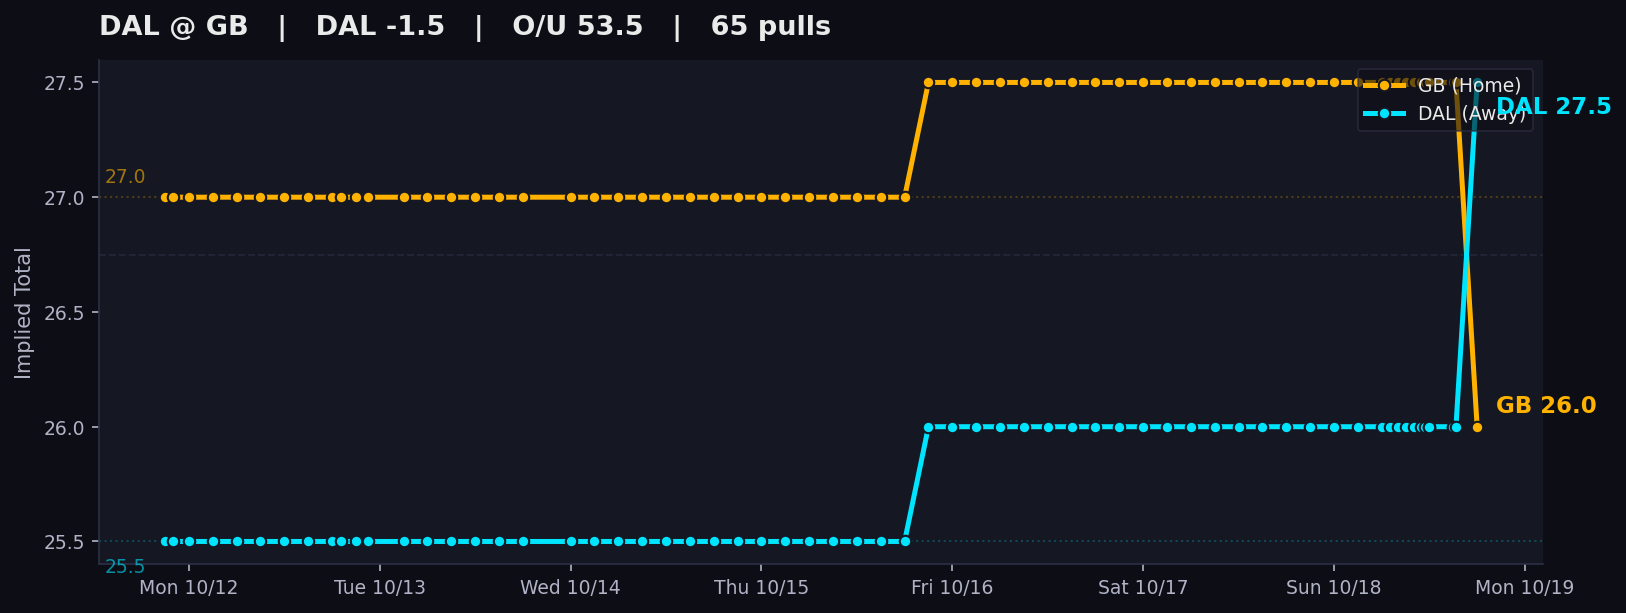
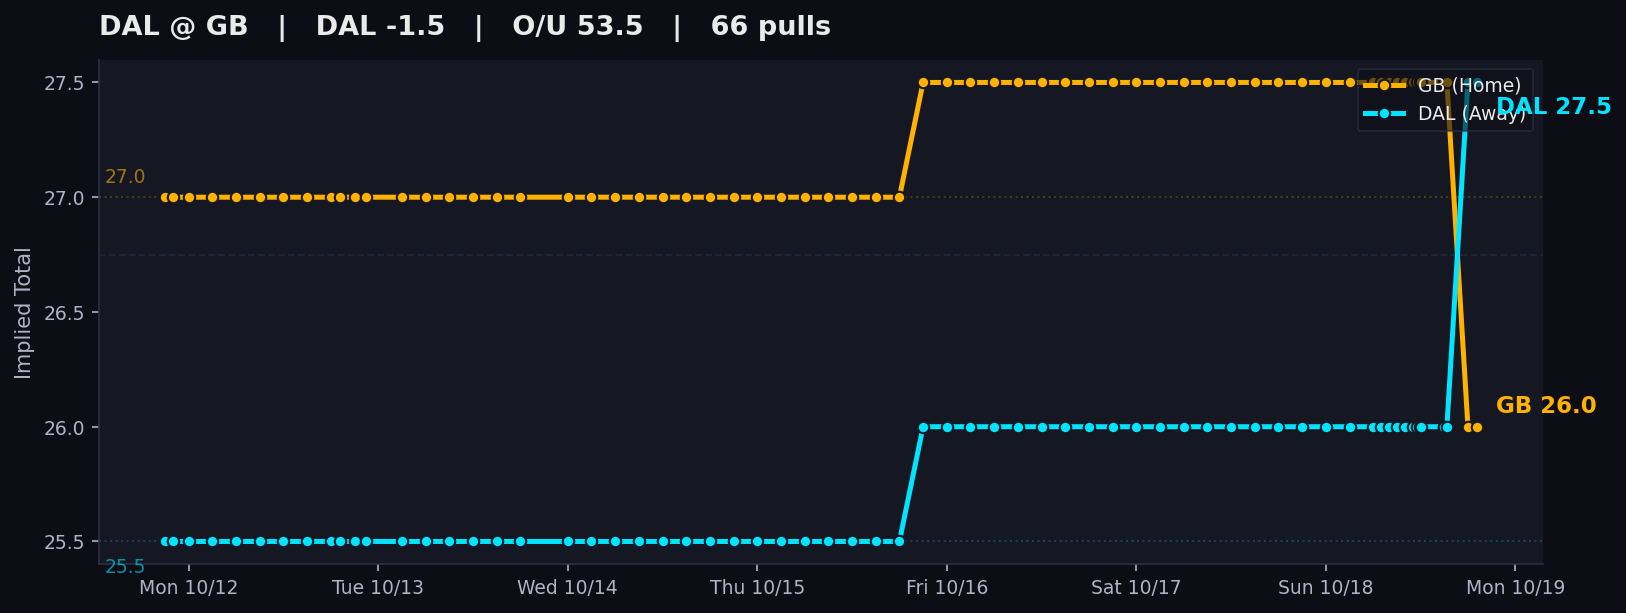
auto: local tracker sync

diff --git a/charts/index.html b/charts/index.html
@@ -311,7 +311,7 @@
     </div>
     <p class='sub'>
       DraftKings main lines &middot; Pinnacle cross-check &middot; Updated by the local Mac tracker<br>
-      Page rendered Sun Oct 18, 2026 6:00 PM CDT &middot; 825 valid chart dots &middot; 868 total pull attempts
+      Page rendered Sun Oct 18, 2026 7:10 PM CDT &middot; 827 valid chart dots &middot; 870 total pull attempts
       <span class='legend-box'>
         <span class='dot-teal'>● Away implied total</span>
         <span class='dot-amber'>● Home implied total</span>
@@ -324,9 +324,9 @@
     </details>
   </header>
 
-  <div id='feed-banner' class='alert-banner healthy' data-banner-kind='healthy' data-feed-ts='2026-10-18T23:00:04.097752+00:00' data-feed-ts-label='Sun Oct 18, 6:00 PM CDT'>
+  <div id='feed-banner' class='alert-banner healthy' data-banner-kind='healthy' data-feed-ts='2026-10-19T00:10:01.359197+00:00' data-feed-ts-label='Sun Oct 18, 7:10 PM CDT'>
             <span class='status-dot'></span>
-            <b>Feed Healthy:</b> All 2 open markets updated. 12 games have started and is showing its final verified pregame line. Board age based on oldest open market: <span id='feed-time'>Sun Oct 18, 6:00 PM CDT</span> (<span id='feed-age-dynamic'>just now</span>).
+            <b>Feed Healthy:</b> All 2 open markets updated. 12 games have started and is showing its final verified pregame line. Board age based on oldest open market: <span id='feed-time'>Sun Oct 18, 7:10 PM CDT</span> (<span id='feed-age-dynamic'>just now</span>).
         </div>
 
   <nav class='filter-bar' aria-label='Filter games by slate'>
@@ -396,7 +396,7 @@
                 <div><span>Last valid pull</span><strong>Thu 6:00 PM CT</strong></div>
                 <div><span>Chart dots</span><strong>34</strong></div>
             </div>
-                    <img class='expanded-chart' src='SEA_DEN.png?v=1792364409' alt='SEA at DEN line movement chart'>
+                    <img class='expanded-chart' src='SEA_DEN.png?v=1792368616' alt='SEA at DEN line movement chart'>
                     <p class='movement-note'>Total 42.5 → 40.5</p>
                 </div>
             </td>
@@ -437,7 +437,7 @@
                 <div><span>Last valid pull</span><strong>8:00 AM CT</strong></div>
                 <div><span>Chart dots</span><strong>56</strong></div>
             </div>
-                    <img class='expanded-chart' src='HOU_JAX.png?v=1792364409' alt='HOU at JAX line movement chart'>
+                    <img class='expanded-chart' src='HOU_JAX.png?v=1792368616' alt='HOU at JAX line movement chart'>
                     <p class='movement-note'>Spread JAX -3.0 → -2.5; Total 43.5 → 41.5</p>
                 </div>
             </td>
@@ -478,7 +478,7 @@
                 <div><span>Last valid pull</span><strong>12:00 PM CT</strong></div>
                 <div><span>Chart dots</span><strong>62</strong></div>
             </div>
-                    <img class='expanded-chart' src='CAR_PHI.png?v=1792364409' alt='CAR at PHI line movement chart'>
+                    <img class='expanded-chart' src='CAR_PHI.png?v=1792368616' alt='CAR at PHI line movement chart'>
                     <p class='movement-note'>Spread CAR +1.5 → -3.0; Total 42.5 → 39.5</p>
                 </div>
             </td>
@@ -513,7 +513,7 @@
                 <div><span>Last valid pull</span><strong>12:00 PM CT</strong></div>
                 <div><span>Chart dots</span><strong>55</strong></div>
             </div>
-                    <img class='expanded-chart' src='CHI_ATL.png?v=1792364409' alt='CHI at ATL line movement chart'>
+                    <img class='expanded-chart' src='CHI_ATL.png?v=1792368616' alt='CHI at ATL line movement chart'>
                     <p class='movement-note'>Spread CHI -3.0 → -1.5; Total 48.5 → 51.5</p>
                 </div>
             </td>
@@ -548,7 +548,7 @@
                 <div><span>Last valid pull</span><strong>12:00 PM CT</strong></div>
                 <div><span>Chart dots</span><strong>62</strong></div>
             </div>
-                    <img class='expanded-chart' src='PIT_TB.png?v=1792364409' alt='PIT at TB line movement chart'>
+                    <img class='expanded-chart' src='PIT_TB.png?v=1792368616' alt='PIT at TB line movement chart'>
                     <p class='movement-note'>Spread PIT -3.0 → -2.5; Total 40.5 → 37.5</p>
                 </div>
             </td>
@@ -583,7 +583,7 @@
                 <div><span>Last valid pull</span><strong>12:00 PM CT</strong></div>
                 <div><span>Chart dots</span><strong>62</strong></div>
             </div>
-                    <img class='expanded-chart' src='NO_NYG.png?v=1792364409' alt='NO at NYG line movement chart'>
+                    <img class='expanded-chart' src='NO_NYG.png?v=1792368616' alt='NO at NYG line movement chart'>
                     <p class='movement-note'>Spread NO +1.5 → -1.5</p>
                 </div>
             </td>
@@ -618,7 +618,7 @@
                 <div><span>Last valid pull</span><strong>12:00 PM CT</strong></div>
                 <div><span>Chart dots</span><strong>55</strong></div>
             </div>
-                    <img class='expanded-chart' src='BAL_CLE.png?v=1792364409' alt='BAL at CLE line movement chart'>
+                    <img class='expanded-chart' src='BAL_CLE.png?v=1792368616' alt='BAL at CLE line movement chart'>
                     <p class='movement-note'>Spread BAL -4.5 → -3.0; Total 40.5 → 39.5</p>
                 </div>
             </td>
@@ -653,7 +653,7 @@
                 <div><span>Last valid pull</span><strong>12:00 PM CT</strong></div>
                 <div><span>Chart dots</span><strong>62</strong></div>
             </div>
-                    <img class='expanded-chart' src='NYJ_NE.png?v=1792364409' alt='NYJ at NE line movement chart'>
+                    <img class='expanded-chart' src='NYJ_NE.png?v=1792368616' alt='NYJ at NE line movement chart'>
                     <p class='movement-note'>Total 44.5 → 43.5</p>
                 </div>
             </td>
@@ -688,7 +688,7 @@
                 <div><span>Last valid pull</span><strong>12:00 PM CT</strong></div>
                 <div><span>Chart dots</span><strong>62</strong></div>
             </div>
-                    <img class='expanded-chart' src='TEN_IND.png?v=1792364409' alt='TEN at IND line movement chart'>
+                    <img class='expanded-chart' src='TEN_IND.png?v=1792368616' alt='TEN at IND line movement chart'>
                     <p class='movement-note'>Spread IND -7.0 → -6.5; Total 44.5 → 43.5</p>
                 </div>
             </td>
@@ -729,7 +729,7 @@
                 <div><span>Last valid pull</span><strong>3:20 PM CT</strong></div>
                 <div><span>Chart dots</span><strong>64</strong></div>
             </div>
-                    <img class='expanded-chart' src='LAC_KC.png?v=1792364409' alt='LAC at KC line movement chart'>
+                    <img class='expanded-chart' src='LAC_KC.png?v=1792368616' alt='LAC at KC line movement chart'>
                     <p class='movement-note'>Spread KC -8.5 → -7.5; Total 43.5 → 41.5</p>
                 </div>
             </td>
@@ -764,7 +764,7 @@
                 <div><span>Last valid pull</span><strong>3:00 PM CT</strong></div>
                 <div><span>Chart dots</span><strong>62</strong></div>
             </div>
-                    <img class='expanded-chart' src='ARI_LAR.png?v=1792364409' alt='ARI at LAR line movement chart'>
+                    <img class='expanded-chart' src='ARI_LAR.png?v=1792368616' alt='ARI at LAR line movement chart'>
                     <p class='movement-note'>Total 52.5 → 51.5</p>
                 </div>
             </td>
@@ -799,7 +799,7 @@
                 <div><span>Last valid pull</span><strong>3:20 PM CT</strong></div>
                 <div><span>Chart dots</span><strong>62</strong></div>
             </div>
-                    <img class='expanded-chart' src='BUF_LVR.png?v=1792364409' alt='BUF at LVR line movement chart'>
+                    <img class='expanded-chart' src='BUF_LVR.png?v=1792368616' alt='BUF at LVR line movement chart'>
                     <p class='movement-note'>Spread BUF -6.0 → -5.5</p>
                 </div>
             </td>
@@ -820,8 +820,8 @@
             <td class='it-away'>DAL 27.5</td>
             <td class='it-home'>GB 26.0</td>
             <td class='reason' title='Spread DAL +1.5 → -1.5; Total 52.5 → 53.5'>Spread DAL +1.5 → -1.5; Total 52.5 → 53.5</td>
-            <td style='text-align:center;'><span class='pill-fresh'>6:00 PM CT</span></td>
-            <td class='snaps'>65</td>
+            <td style='text-align:center;'><span class='pill-fresh'>7:10 PM CT</span></td>
+            <td class='snaps'>66</td>
         </tr>
         <tr id='desktop-panel-DAL_GB' class='chart-detail-row' data-slate='SNF' data-game-panel='DAL_GB' hidden>
             <td colspan='12'>
@@ -837,10 +837,10 @@
                 <div><span>Current total</span><strong>53.5</strong></div>
                 <div><span>Away implied</span><strong class='it-away'>DAL 27.5</strong></div>
                 <div><span>Home implied</span><strong class='it-home'>GB 26.0</strong></div>
-                <div><span>Last valid pull</span><strong>6:00 PM CT</strong></div>
-                <div><span>Chart dots</span><strong>65</strong></div>
+                <div><span>Last valid pull</span><strong>7:10 PM CT</strong></div>
+                <div><span>Chart dots</span><strong>66</strong></div>
             </div>
-                    <img class='expanded-chart' src='DAL_GB.png?v=1792364409' alt='DAL at GB line movement chart'>
+                    <img class='expanded-chart' src='DAL_GB.png?v=1792368616' alt='DAL at GB line movement chart'>
                     <p class='movement-note'>Spread DAL +1.5 → -1.5; Total 52.5 → 53.5</p>
                 </div>
             </td>
@@ -861,8 +861,8 @@
             <td class='it-away'>WAS 22.0</td>
             <td class='it-home'>SF 29.5</td>
             <td class='reason' title='Total 50.5 → 51.5'>Total 50.5 → 51.5</td>
-            <td style='text-align:center;'><span class='pill-fresh'>6:00 PM CT</span></td>
-            <td class='snaps'>62</td>
+            <td style='text-align:center;'><span class='pill-fresh'>7:10 PM CT</span></td>
+            <td class='snaps'>63</td>
         </tr>
         <tr id='desktop-panel-WAS_SF' class='chart-detail-row' data-slate='MNF' data-game-panel='WAS_SF' hidden>
             <td colspan='12'>
@@ -878,10 +878,10 @@
                 <div><span>Current total</span><strong>51.5</strong></div>
                 <div><span>Away implied</span><strong class='it-away'>WAS 22.0</strong></div>
                 <div><span>Home implied</span><strong class='it-home'>SF 29.5</strong></div>
-                <div><span>Last valid pull</span><strong>6:00 PM CT</strong></div>
-                <div><span>Chart dots</span><strong>62</strong></div>
+                <div><span>Last valid pull</span><strong>7:10 PM CT</strong></div>
+                <div><span>Chart dots</span><strong>63</strong></div>
             </div>
-                    <img class='expanded-chart' src='WAS_SF.png?v=1792364409' alt='WAS at SF line movement chart'>
+                    <img class='expanded-chart' src='WAS_SF.png?v=1792368616' alt='WAS at SF line movement chart'>
                     <p class='movement-note'>Total 50.5 → 51.5</p>
                 </div>
             </td>
@@ -916,7 +916,7 @@
                 <div><span>Last valid pull</span><strong>Thu 6:00 PM CT</strong></div>
                 <div><span>Chart dots</span><strong>34</strong></div>
             </div>
-                <img class='expanded-chart' src='SEA_DEN.png?v=1792364409' alt='SEA at DEN line movement chart'>
+                <img class='expanded-chart' src='SEA_DEN.png?v=1792368616' alt='SEA at DEN line movement chart'>
                 <p class='pull-note'><span class='pull-dot'></span> Every dot is a valid completed pull · 34 chart dots</p>
             </div>
         </article><article class='mobile-game-card closed-game' data-slate='OTHER_PRIMETIME' data-game='HOU_JAX'>
@@ -943,7 +943,7 @@
                 <div><span>Last valid pull</span><strong>8:00 AM CT</strong></div>
                 <div><span>Chart dots</span><strong>56</strong></div>
             </div>
-                <img class='expanded-chart' src='HOU_JAX.png?v=1792364409' alt='HOU at JAX line movement chart'>
+                <img class='expanded-chart' src='HOU_JAX.png?v=1792368616' alt='HOU at JAX line movement chart'>
                 <p class='pull-note'><span class='pull-dot'></span> Every dot is a valid completed pull · 56 chart dots</p>
             </div>
         </article><article class='mobile-game-card closed-game' data-slate='SUN_EARLY' data-game='CAR_PHI'>
@@ -970,7 +970,7 @@
                 <div><span>Last valid pull</span><strong>12:00 PM CT</strong></div>
                 <div><span>Chart dots</span><strong>62</strong></div>
             </div>
-                <img class='expanded-chart' src='CAR_PHI.png?v=1792364409' alt='CAR at PHI line movement chart'>
+                <img class='expanded-chart' src='CAR_PHI.png?v=1792368616' alt='CAR at PHI line movement chart'>
                 <p class='pull-note'><span class='pull-dot'></span> Every dot is a valid completed pull · 62 chart dots</p>
             </div>
         </article><article class='mobile-game-card closed-game' data-slate='SUN_EARLY' data-game='CHI_ATL'>
@@ -997,7 +997,7 @@
                 <div><span>Last valid pull</span><strong>12:00 PM CT</strong></div>
                 <div><span>Chart dots</span><strong>55</strong></div>
             </div>
-                <img class='expanded-chart' src='CHI_ATL.png?v=1792364409' alt='CHI at ATL line movement chart'>
+                <img class='expanded-chart' src='CHI_ATL.png?v=1792368616' alt='CHI at ATL line movement chart'>
                 <p class='pull-note'><span class='pull-dot'></span> Every dot is a valid completed pull · 55 chart dots</p>
             </div>
         </article><article class='mobile-game-card closed-game' data-slate='SUN_EARLY' data-game='PIT_TB'>
@@ -1024,7 +1024,7 @@
                 <div><span>Last valid pull</span><strong>12:00 PM CT</strong></div>
                 <div><span>Chart dots</span><strong>62</strong></div>
             </div>
-                <img class='expanded-chart' src='PIT_TB.png?v=1792364409' alt='PIT at TB line movement chart'>
+                <img class='expanded-chart' src='PIT_TB.png?v=1792368616' alt='PIT at TB line movement chart'>
                 <p class='pull-note'><span class='pull-dot'></span> Every dot is a valid completed pull · 62 chart dots</p>
             </div>
         </article><article class='mobile-game-card closed-game' data-slate='SUN_EARLY' data-game='NO_NYG'>
@@ -1051,7 +1051,7 @@
                 <div><span>Last valid pull</span><strong>12:00 PM CT</strong></div>
                 <div><span>Chart dots</span><strong>62</strong></div>
             </div>
-                <img class='expanded-chart' src='NO_NYG.png?v=1792364409' alt='NO at NYG line movement chart'>
+                <img class='expanded-chart' src='NO_NYG.png?v=1792368616' alt='NO at NYG line movement chart'>
                 <p class='pull-note'><span class='pull-dot'></span> Every dot is a valid completed pull · 62 chart dots</p>
             </div>
         </article><article class='mobile-game-card closed-game' data-slate='SUN_EARLY' data-game='BAL_CLE'>
@@ -1078,7 +1078,7 @@
                 <div><span>Last valid pull</span><strong>12:00 PM CT</strong></div>
                 <div><span>Chart dots</span><strong>55</strong></div>
             </div>
-                <img class='expanded-chart' src='BAL_CLE.png?v=1792364409' alt='BAL at CLE line movement chart'>
+                <img class='expanded-chart' src='BAL_CLE.png?v=1792368616' alt='BAL at CLE line movement chart'>
                 <p class='pull-note'><span class='pull-dot'></span> Every dot is a valid completed pull · 55 chart dots</p>
             </div>
         </article><article class='mobile-game-card closed-game' data-slate='SUN_EARLY' data-game='NYJ_NE'>
@@ -1105,7 +1105,7 @@
                 <div><span>Last valid pull</span><strong>12:00 PM CT</strong></div>
                 <div><span>Chart dots</span><strong>62</strong></div>
             </div>
-                <img class='expanded-chart' src='NYJ_NE.png?v=1792364409' alt='NYJ at NE line movement chart'>
+                <img class='expanded-chart' src='NYJ_NE.png?v=1792368616' alt='NYJ at NE line movement chart'>
                 <p class='pull-note'><span class='pull-dot'></span> Every dot is a valid completed pull · 62 chart dots</p>
             </div>
         </article><article class='mobile-game-card closed-game' data-slate='SUN_EARLY' data-game='TEN_IND'>
@@ -1132,7 +1132,7 @@
                 <div><span>Last valid pull</span><strong>12:00 PM CT</strong></div>
                 <div><span>Chart dots</span><strong>62</strong></div>
             </div>
-                <img class='expanded-chart' src='TEN_IND.png?v=1792364409' alt='TEN at IND line movement chart'>
+                <img class='expanded-chart' src='TEN_IND.png?v=1792368616' alt='TEN at IND line movement chart'>
                 <p class='pull-note'><span class='pull-dot'></span> Every dot is a valid completed pull · 62 chart dots</p>
             </div>
         </article><article class='mobile-game-card closed-game' data-slate='SUN_LATE' data-game='LAC_KC'>
@@ -1159,7 +1159,7 @@
                 <div><span>Last valid pull</span><strong>3:20 PM CT</strong></div>
                 <div><span>Chart dots</span><strong>64</strong></div>
             </div>
-                <img class='expanded-chart' src='LAC_KC.png?v=1792364409' alt='LAC at KC line movement chart'>
+                <img class='expanded-chart' src='LAC_KC.png?v=1792368616' alt='LAC at KC line movement chart'>
                 <p class='pull-note'><span class='pull-dot'></span> Every dot is a valid completed pull · 64 chart dots</p>
             </div>
         </article><article class='mobile-game-card closed-game' data-slate='SUN_LATE' data-game='ARI_LAR'>
@@ -1186,7 +1186,7 @@
                 <div><span>Last valid pull</span><strong>3:00 PM CT</strong></div>
                 <div><span>Chart dots</span><strong>62</strong></div>
             </div>
-                <img class='expanded-chart' src='ARI_LAR.png?v=1792364409' alt='ARI at LAR line movement chart'>
+                <img class='expanded-chart' src='ARI_LAR.png?v=1792368616' alt='ARI at LAR line movement chart'>
                 <p class='pull-note'><span class='pull-dot'></span> Every dot is a valid completed pull · 62 chart dots</p>
             </div>
         </article><article class='mobile-game-card closed-game' data-slate='SUN_LATE' data-game='BUF_LVR'>
@@ -1213,7 +1213,7 @@
                 <div><span>Last valid pull</span><strong>3:20 PM CT</strong></div>
                 <div><span>Chart dots</span><strong>62</strong></div>
             </div>
-                <img class='expanded-chart' src='BUF_LVR.png?v=1792364409' alt='BUF at LVR line movement chart'>
+                <img class='expanded-chart' src='BUF_LVR.png?v=1792368616' alt='BUF at LVR line movement chart'>
                 <p class='pull-note'><span class='pull-dot'></span> Every dot is a valid completed pull · 62 chart dots</p>
             </div>
         </article><article class='mobile-game-card ' data-slate='SNF' data-game='DAL_GB'>
@@ -1237,11 +1237,11 @@
                 <div><span>Current total</span><strong>53.5</strong></div>
                 <div><span>Away implied</span><strong class='it-away'>DAL 27.5</strong></div>
                 <div><span>Home implied</span><strong class='it-home'>GB 26.0</strong></div>
-                <div><span>Last valid pull</span><strong>6:00 PM CT</strong></div>
-                <div><span>Chart dots</span><strong>65</strong></div>
+                <div><span>Last valid pull</span><strong>7:10 PM CT</strong></div>
+                <div><span>Chart dots</span><strong>66</strong></div>
             </div>
-                <img class='expanded-chart' src='DAL_GB.png?v=1792364409' alt='DAL at GB line movement chart'>
-                <p class='pull-note'><span class='pull-dot'></span> Every dot is a valid completed pull · 65 chart dots</p>
+                <img class='expanded-chart' src='DAL_GB.png?v=1792368616' alt='DAL at GB line movement chart'>
+                <p class='pull-note'><span class='pull-dot'></span> Every dot is a valid completed pull · 66 chart dots</p>
             </div>
         </article><article class='mobile-game-card ' data-slate='MNF' data-game='WAS_SF'>
             <button class='mobile-game-summary' type='button' data-toggle-game='WAS_SF' aria-expanded='false' aria-controls='mobile-panel-WAS_SF'>
@@ -1264,11 +1264,11 @@
                 <div><span>Current total</span><strong>51.5</strong></div>
                 <div><span>Away implied</span><strong class='it-away'>WAS 22.0</strong></div>
                 <div><span>Home implied</span><strong class='it-home'>SF 29.5</strong></div>
-                <div><span>Last valid pull</span><strong>6:00 PM CT</strong></div>
-                <div><span>Chart dots</span><strong>62</strong></div>
+                <div><span>Last valid pull</span><strong>7:10 PM CT</strong></div>
+                <div><span>Chart dots</span><strong>63</strong></div>
             </div>
-                <img class='expanded-chart' src='WAS_SF.png?v=1792364409' alt='WAS at SF line movement chart'>
-                <p class='pull-note'><span class='pull-dot'></span> Every dot is a valid completed pull · 62 chart dots</p>
+                <img class='expanded-chart' src='WAS_SF.png?v=1792368616' alt='WAS at SF line movement chart'>
+                <p class='pull-note'><span class='pull-dot'></span> Every dot is a valid completed pull · 63 chart dots</p>
             </div>
         </article>
   </section>
